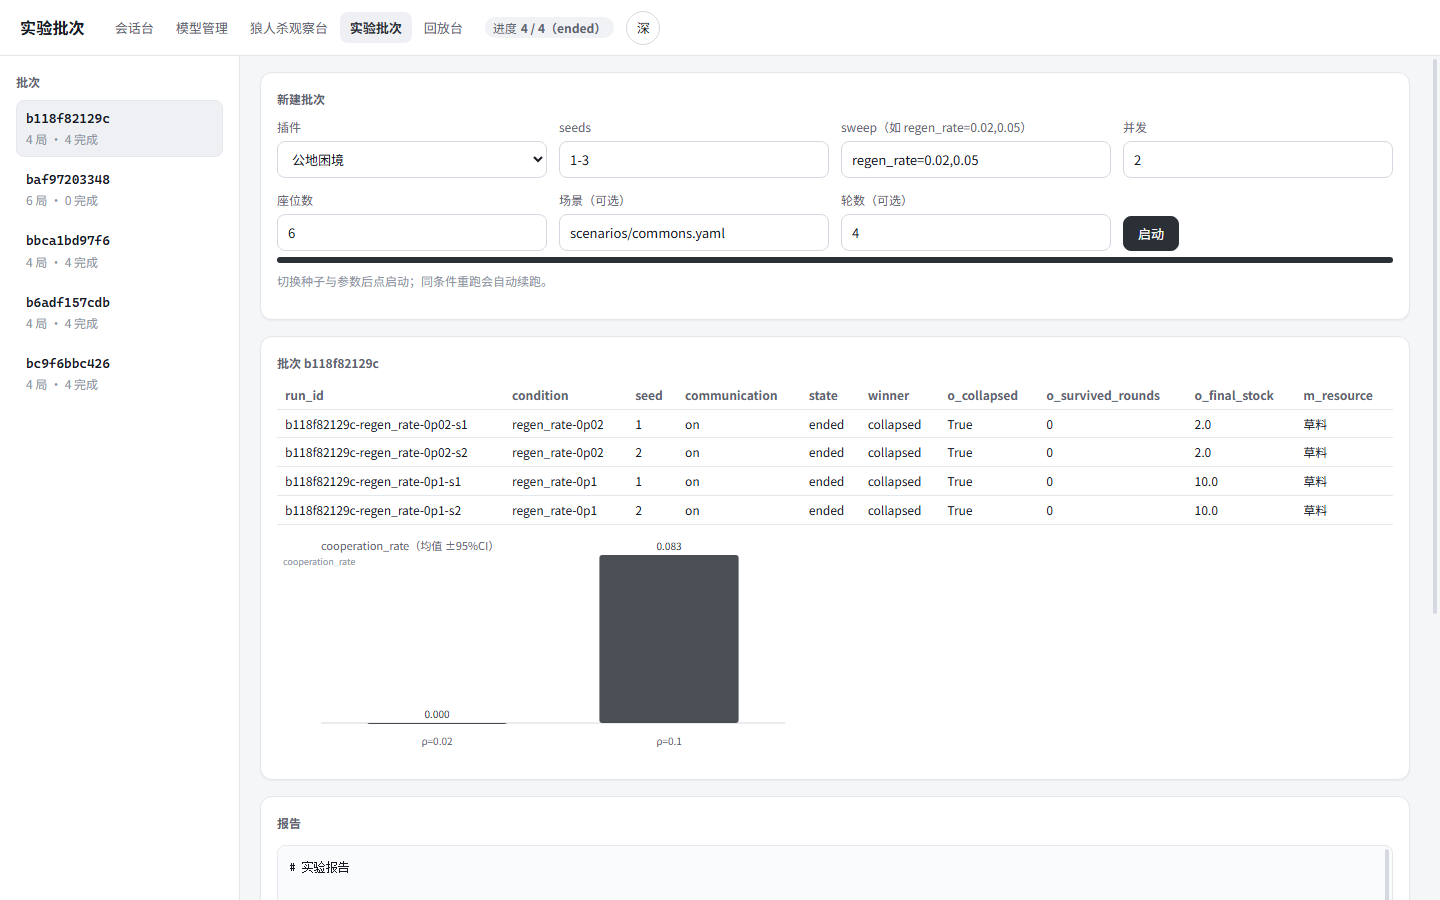
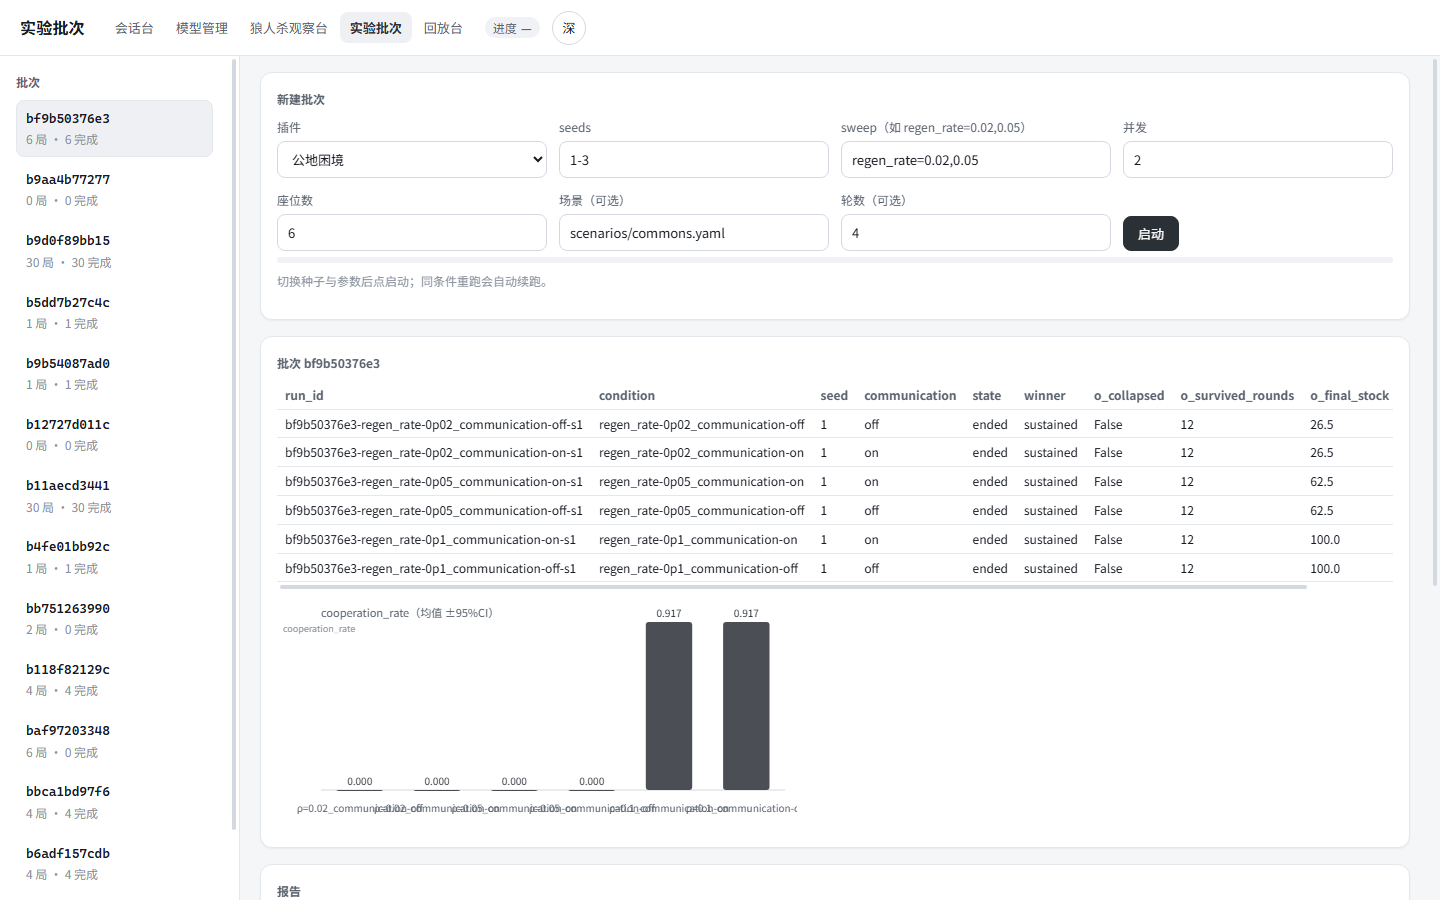
fix(chart): 条件名压成短标签（rho=0.02·沟通开）+ 顶部留白避免数值与标题重叠

diff --git a/base/report.py b/base/report.py
@@ -159,7 +159,7 @@ def svg_chart(points, title: str, ylabel: str = "", width: int = 520, height: in
     if not pts:
         return ""
     top = max(p["mean"] + (p.get("ci") or 0) for p in pts) or 1.0
-    pad_l, pad_r, pad_t, pad_b = 44, 12, 18, 34
+    pad_l, pad_r, pad_t, pad_b = 44, 12, 30, 34
     inner_w = width - pad_l - pad_r
     inner_h = height - pad_t - pad_b
     slot = inner_w / max(1, len(pts))
@@ -179,7 +179,7 @@ def svg_chart(points, title: str, ylabel: str = "", width: int = 520, height: in
                         % (x + w / 2, cy, x + w / 2, y + ch))
             bars.append('<line x1="%.1f" y1="%.1f" x2="%.1f" y2="%.1f" stroke="#8b929d"/>'
                         % (x + w / 2 - 4, cy, x + w / 2 + 4, cy))
-        bars.append('<text x="%.1f" y="%.1f" font-size="10" fill="#5b636f" '
+        bars.append('<text x="%.1f" y="%.1f" font-size="9" fill="#5b636f" '
                     'text-anchor="middle">%s</text>' % (x + w / 2, height - 12, p["label"]))
         bars.append('<text x="%.1f" y="%.1f" font-size="10" fill="#2b2f36" '
                     'text-anchor="middle">%.3f</text>' % (x + w / 2, y - 5, p["mean"]))
@@ -199,6 +199,19 @@ def chart_points(rows, metric_key: str) -> list:
     comps = compare(rows, [metric_key])
     for c in comps:
         v = (c["agg"].get(metric_key) or {})
-        out.append({"label": c["condition"].replace("regen_rate-", "ρ=").replace("p", "."),
+        out.append({"label": _short_label(c["condition"]),
                     "mean": v.get("mean"), "ci": v.get("ci95")})
     return out
+
+def _short_label(cond: str) -> str:
+    """把条件名压成适合画在图上的短标签。"""
+    text = str(cond or "base")
+    for key, repl in (("regen_rate-", "ρ="), ("communication-", "沟通"),
+                      ("contracts-", "契约"), ("mediation-", "调解"),
+                      ("info_visibility-", "视野"), ("show_reputation-", "声誉")):
+        text = text.replace(key, repl)
+    text = text.replace("0p0", "0.0").replace("0p1", "0.1").replace("0p", "0.")
+    text = text.replace("_on", "开").replace("_off", "关")
+    text = text.replace("on", "开").replace("off", "关")
+    text = text.replace("_", "·").replace("full", "全").replace("self", "自")
+    return text[:14]
